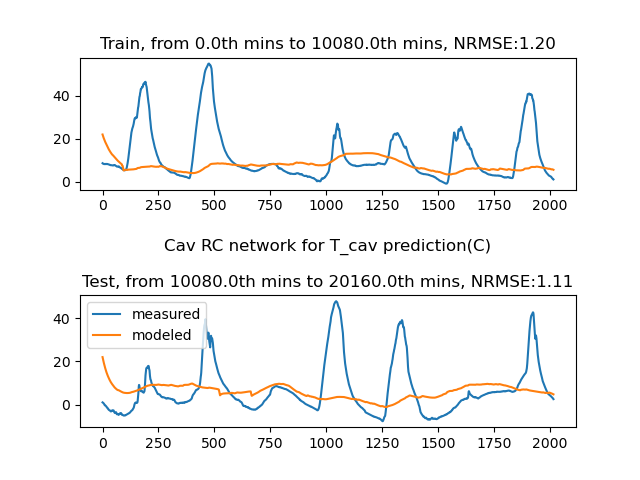
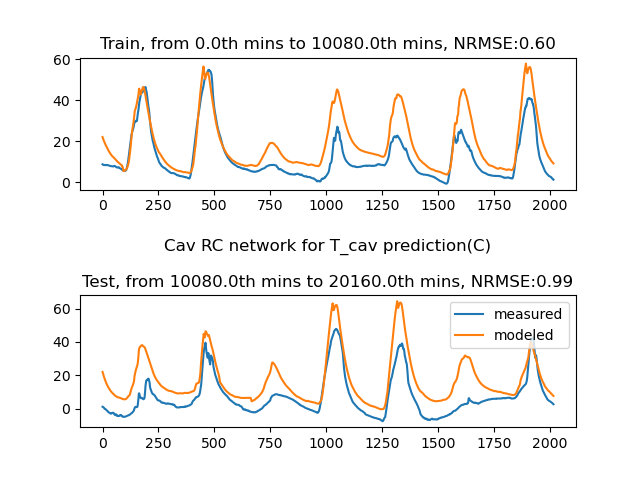
acceptable performance for cav rc model

diff --git a/_3_radiant_py3/_2_pyswarm.py b/_3_radiant_py3/_2_pyswarm.py
@@ -57,7 +57,7 @@ def obj_func(params, constants, train=True):
 
 def particle_loss(params, constants):
     y_measure, y_model = obj_func(params, constants)
-    return sum((abs(y_model - y_measure))**2) /(constants['end'] - constants['start'])
+    return sum((abs(y_model - y_measure))**2)
 
 
 def whole_swarm_loss(x, constants):
